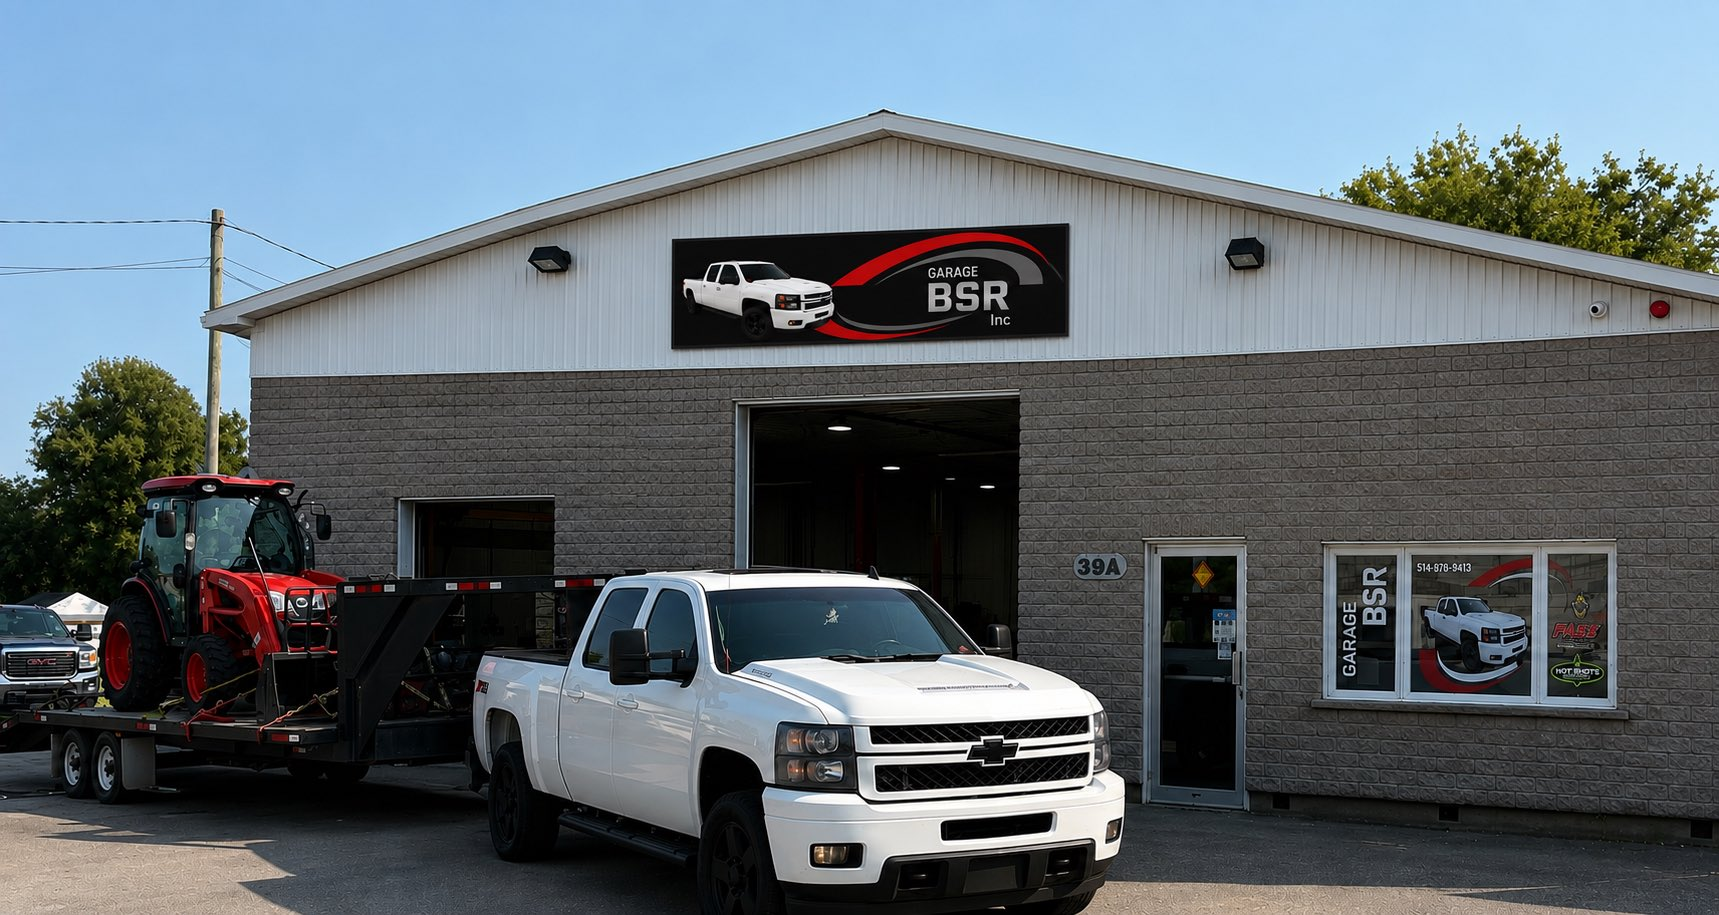
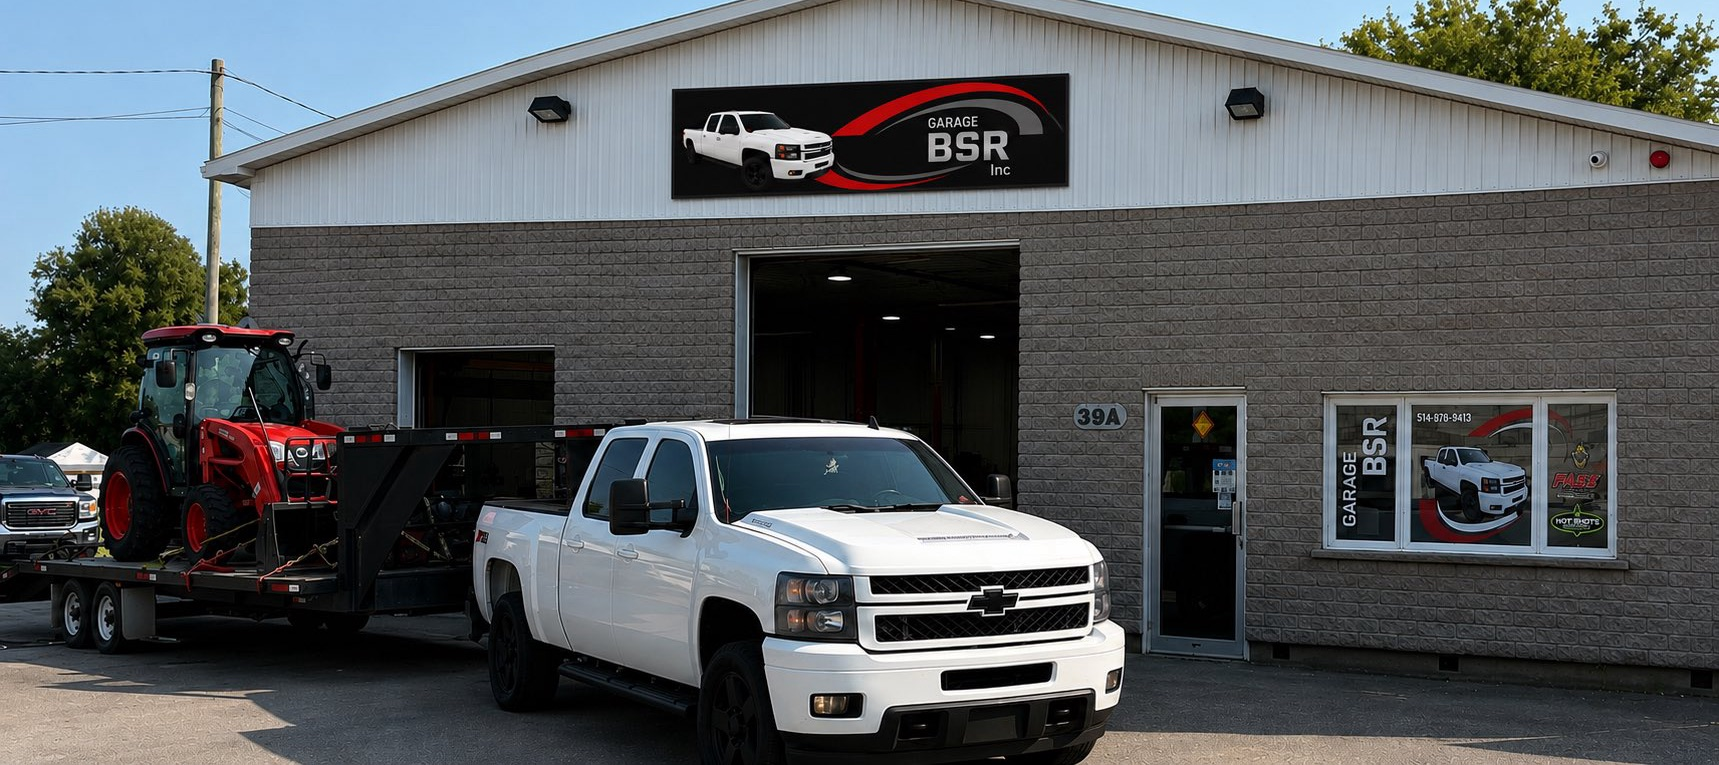
Recadrage de la photo d'accueil : enseigne, camionnette et vitrine visibles
La photo elle-même est recadrée : 150 px de ciel retirés en haut, ce qui la
fait passer de 1719x915 à 1719x765. Son format (2,25) se rapproche ainsi de
celui du bandeau d'accueil, si bien qu'il n'y a presque plus rien à rogner
pour le remplir — c'est ce qui permet enfin de dézoomer sans voir revenir le
ciel, les deux se contredisaient jusqu'ici.

Cadrage
- Ordinateur : le zoom est fixé par un plancher en pixels (1760 px) plutôt
  qu'en pourcentage, donc la photo cesse de grandir avec l'écran et le
  cadrage reste stable jusqu'à 2560 px. L'enseigne passe au-dessus du titre,
  la camionnette occupe le bas et la vitrine reste dans le cadre à droite.
- Téléphone et tablette : le texte occupe toute la largeur, l'enseigne garde
  donc sa propre bande en haut. Le ciel étant retiré à la source, le décalage
  négatif n'est plus nécessaire.

Vérifié de 320 px à 2560 px : enseigne visible à 100 % partout, aucune
collision avec le texte, aucune bande noire sous la photo.

Réserve : entre 960 et 1180 px, le bandeau est haut par rapport à sa largeur
et la camionnette comme la vitrine sont rognées de 20 à 35 %. Tout est de
nouveau complet à partir de 1280 px.

diff --git a/assets/css/style.css b/assets/css/style.css
@@ -486,18 +486,23 @@ a[href^="tel:"] { white-space: nowrap; }
    ========================================================================== */
 .hero {
   position: relative;
-  padding: clamp(66px, 10vw, 120px) 0 clamp(56px, 8vw, 104px);
+  /* Top padding is what holds the copy clear of the sign band above it. */
+  padding: clamp(116px, 13vw, 132px) 0 clamp(56px, 8vw, 104px);
   overflow: hidden;
-  /* The shop itself, at 50% over the black ground. Photo sits centre-right so
-     the building fills the copy side; the flat 50% layer is what dims it. */
-  background:
-    /* legibility scrim over the copy — stacked layout puts it up top */
-    linear-gradient(to bottom, rgba(0, 0, 0, 0.55) 0%, rgba(0, 0, 0, 0.55) 62%,
-      rgba(0, 0, 0, 0) 88%),
-    /* the photo, at 50% */
-    linear-gradient(rgba(0, 0, 0, 0.5), rgba(0, 0, 0, 0.5)),
-    url("../img/atelier.jpg") center 85% / cover no-repeat,
-    var(--ink);
+  /* PHONE / TABLET — the copy runs the full width here, so the sign cannot be
+     cleared sideways; it is given a band of its own along the top instead, and
+     the photo is faded to black behind the copy below it.
+     The sky is already cropped out of atelier.jpg itself, so the photo needs no
+     negative offset here — the sign sits near its top edge by construction. */
+  background-color: var(--ink);
+  background-repeat: no-repeat;
+  background-image:
+    linear-gradient(to bottom,
+      rgba(0, 0, 0, 0) 0%, rgba(0, 0, 0, 0.08) 20%, rgba(0, 0, 0, 0.70) 44%,
+      rgba(0, 0, 0, 0.94) 60%, var(--ink) 74%),
+    url("../img/atelier.jpg");
+  background-size: 100% 100%, 118% auto;
+  background-position: 0 0, 50% 0;
   border-bottom: 1px solid var(--line-soft);
 }
 /* The shop photograph replaced the drawn arc in the hero — one focal
@@ -521,13 +526,25 @@ a[href^="tel:"] { white-space: nowrap; }
   .hero__grid { grid-template-columns: 1.12fr 0.88fr; }
   /* Copy takes the left track; the photograph carries the right one. */
   .hero__copy { grid-column: 1; }
-    /* copy is on the left, so the scrim runs that way */
+  /* DESKTOP / LARGE TABLET — only 115%, so the whole scene stays in frame:
+     the sign on the gable, the pickup, and the display window on the right.
+     Anchored to the right edge so the window is never the thing that falls off,
+     and pulled up 14vw so the sign clears the headline and the sky is gone. */
   .hero {
-    background:
-      linear-gradient(to left, rgba(0, 0, 0, 0) 26%, rgba(0, 0, 0, 0.55) 54%),
-      linear-gradient(rgba(0, 0, 0, 0.5), rgba(0, 0, 0, 0.5)),
-      url("../img/atelier.jpg") left 100% / cover no-repeat,
-      var(--ink);
+    background-image:
+      linear-gradient(to left, rgba(0, 0, 0, 0) 32%, rgba(0, 0, 0, 0.58) 56%,
+        rgba(0, 0, 0, 0.74) 100%),
+      linear-gradient(rgba(0, 0, 0, 0.26), rgba(0, 0, 0, 0.26)),
+      url("../img/atelier.jpg");
+    /* Zoom pinned to a pixel floor, not a percentage: past ~1700px the photo
+       stops growing with the viewport, so the sign, the pickup and the display
+       window all stay in frame rather than the crop tightening as the screen
+       widens. Nudged right of centre so the window survives at narrow desktop
+       widths, and up 62px so the sign clears the headline. */
+    background-size: 100% 100%, 100% 100%, max(100%, 1760px) auto;
+    background-position: 0 0, 0 0, 66% -60px;
+    /* Extra head-room so the copy starts below the sign band, not across it. */
+    padding-top: 152px;
   }
 }
 
@@ -563,13 +580,8 @@ a[href^="tel:"] { white-space: nowrap; }
 }
 .chip .dot { display: none; }
 
-/* The photo is 1.88:1, almost the hero's own shape, so `cover` leaves barely
-   any vertical room to reposition. From 1300px up the hero is comfortably
-   wider than the photo, so a 6% width zoom is safe and buys ~120px of travel
-   to lift the building and sign clear of the sky. */
-@media (min-width: 1300px) {
-  .hero { background-size: auto, auto, 106% auto; }
-}
+/* The 150%/-16vw pair above already covers every desktop width, so the old
+   1300px zoom step is gone: it fought the new offset instead of helping it. */
 
 /* ==========================================================================
    Marquee strip (logo-style red band)
